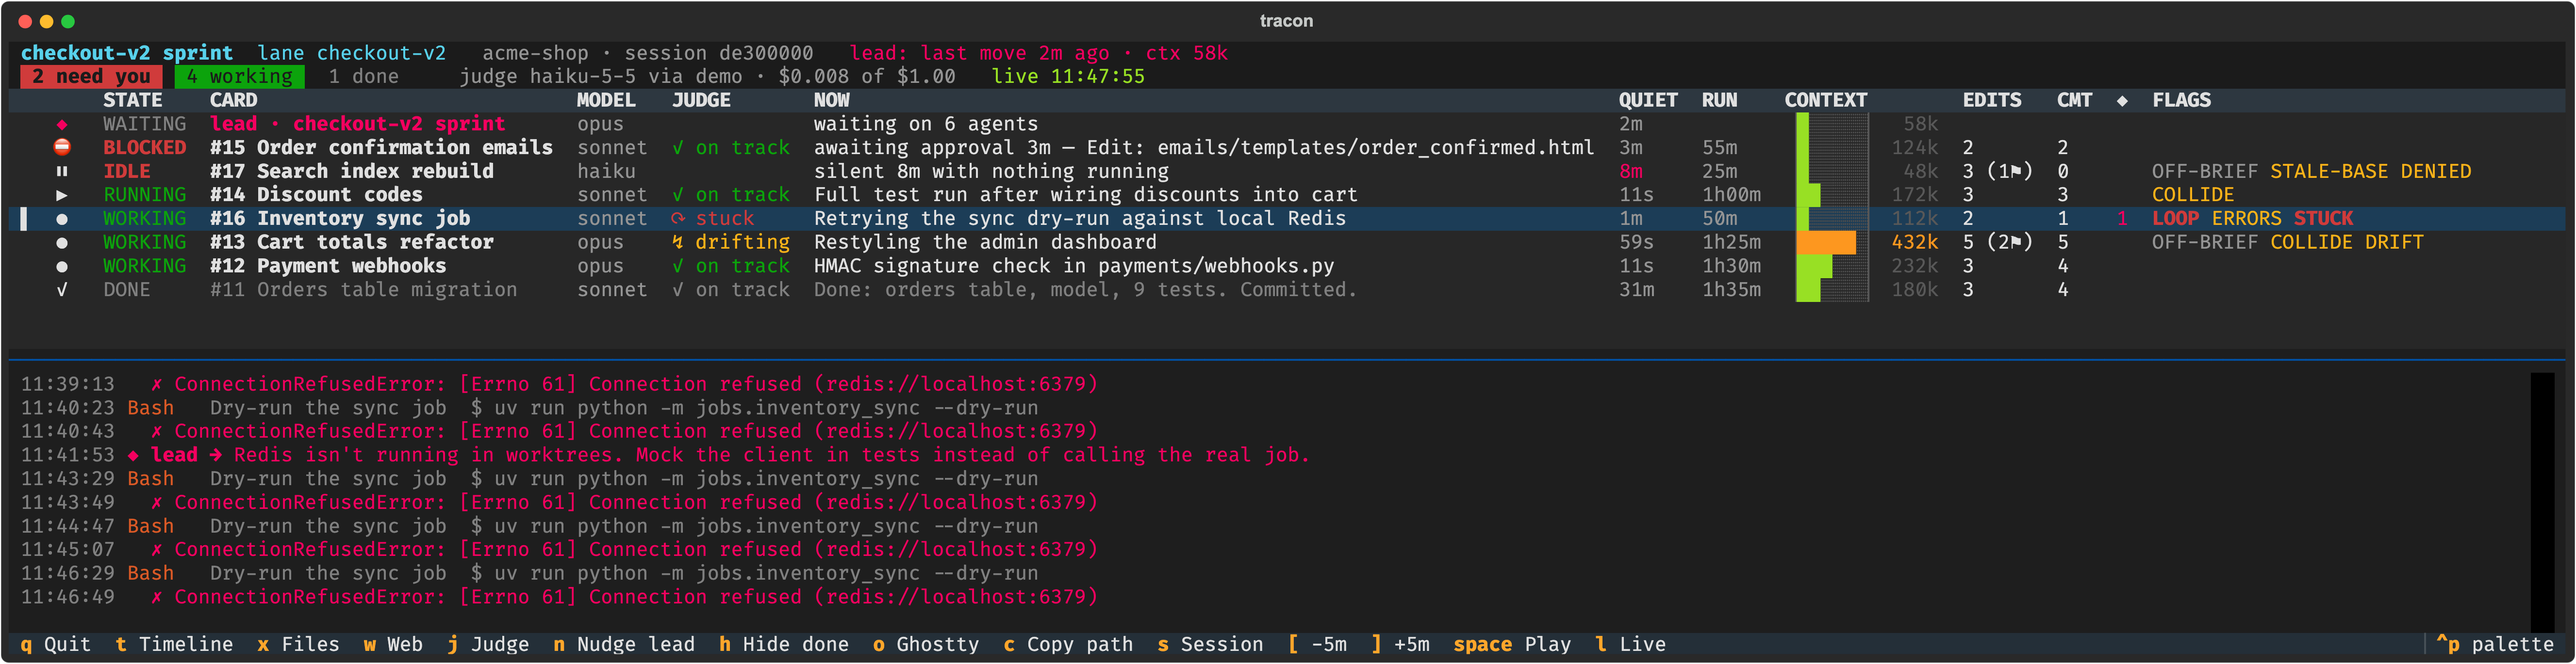
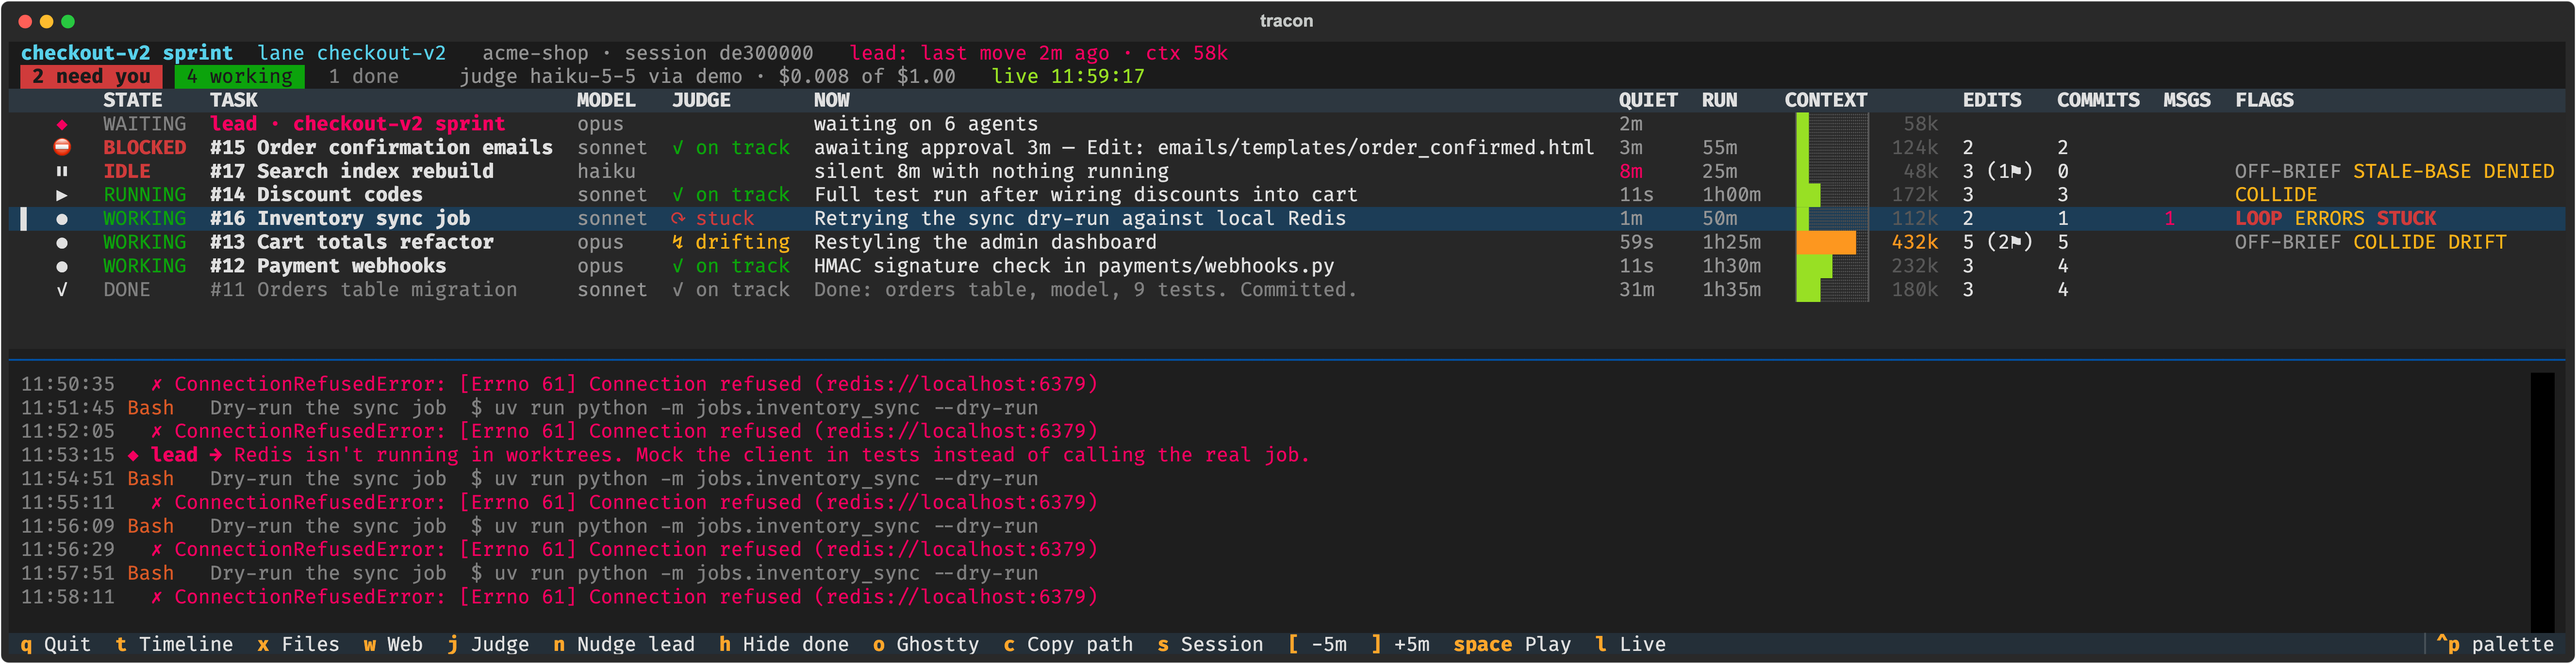
Name the columns: TASK, COMMITS, MSGS, and explain them in the README
CARD assumed card-numbered briefs, CMT was cryptic, and the ◆ header
clashed with the ◆ that marks the lead row.

Changed region(s): [[0.8393, 0.2453, 0.9947, 0.3679], [0.8082, 0.1226, 0.9015, 0.1839]]

diff --git a/tracon/app.py b/tracon/app.py
@@ -518,9 +518,9 @@ class LaneApp(App):
             self._terminal_write("\x1b[22;2t")  # save the terminal's title; cli restores it on exit
         table = self.query_one(DataTable)
         for label, key in [
-            ("", "mark"), ("", "icon"), ("STATE", "state"), ("CARD", "card"), ("MODEL", "model"), ("JUDGE", "judge"), ("NOW", "now"),
-            ("QUIET", "quiet"), ("RUN", "run"), ("CONTEXT", "ctx"), ("EDITS", "edits"), ("CMT", "cmt"),
-            ("◆", "msgs"), ("FLAGS", "flags"),
+            ("", "mark"), ("", "icon"), ("STATE", "state"), ("TASK", "task"), ("MODEL", "model"), ("JUDGE", "judge"), ("NOW", "now"),
+            ("QUIET", "quiet"), ("RUN", "run"), ("CONTEXT", "ctx"), ("EDITS", "edits"), ("COMMITS", "commits"),
+            ("MSGS", "msgs"), ("FLAGS", "flags"),
         ]:
             table.add_column(label, key=key, width=1 if key == "mark" else None)
         self.tick()

diff --git a/README.md b/README.md
@@ -152,6 +152,23 @@ You don't control agents from tracon; it is read-only. When something needs acti
 in your orchestrating session: answer the prompt there, or ask the lead to message, stop or
 re-dispatch the agent.
 
+### Columns
+
+| Column | Shows |
+|---|---|
+| **STATE** | What it is doing now (below) |
+| **TASK** | The description the lead gave the agent; the pinned row is the lead itself |
+| **MODEL** | The model it runs on |
+| **JUDGE** | The judge's latest verdict (below) |
+| **NOW** | Its current or latest action |
+| **QUIET** | Time since its transcript last moved; red past the 5 min idle threshold |
+| **RUN** | Time since it started |
+| **CONTEXT** | Context size in tokens; amber above 300k, red above 450k |
+| **EDITS** | Files it edited; `(n⚑)` counts those the brief never names |
+| **COMMITS** | `git commit` calls it made |
+| **MSGS** | Messages the lead sent it |
+| **FLAGS** | Things worth a look (below) |
+
 ### Colours
 
 | Colour | Browser label | Means |
